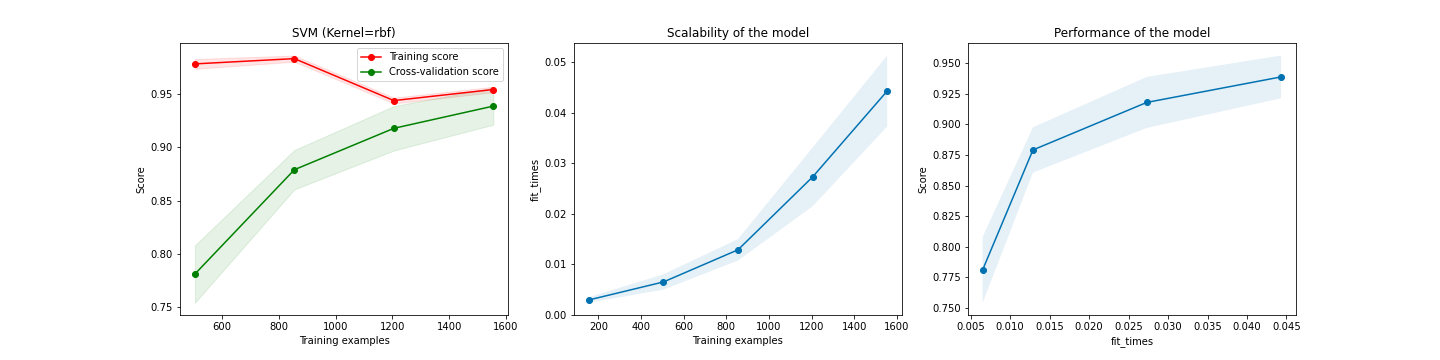
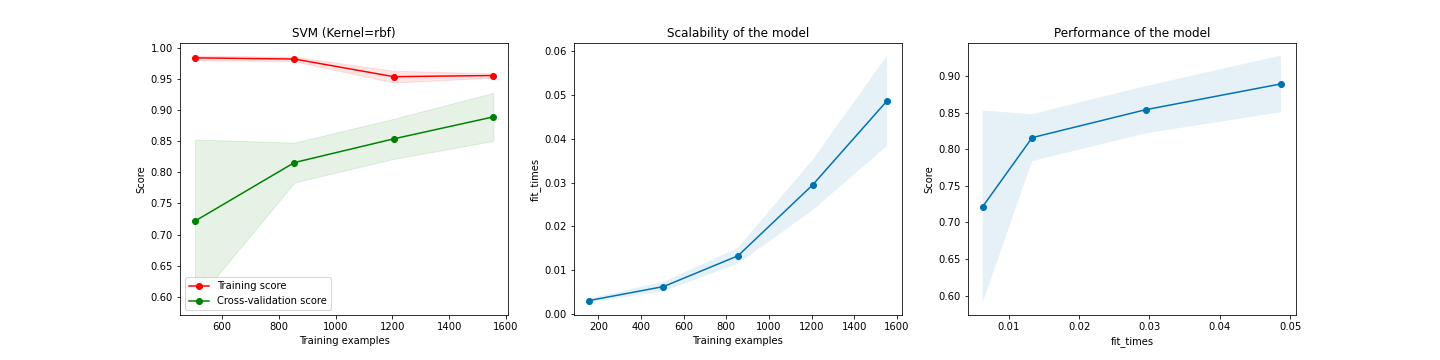
feat: add Neural Network

diff --git a/supervised_learning/external_fn.py b/supervised_learning/external_fn.py
@@ -1,0 +1,123 @@
+import numpy as np
+import matplotlib.pyplot as plt
+from sklearn.model_selection import learning_curve
+
+# plot_learning_curve function from official scikit-learn documentation
+# ref: https://scikit-learn.org/stable/auto_examples/model_selection/plot_learning_curve.html
+
+def plot_learning_curve(estimator, title, X, y, axes=None, ylim=None, cv=None,
+                        n_jobs=None, train_sizes=np.linspace(.1, 1.0, 5)):
+    """
+    Generate 3 plots: the test and training learning curve, the training
+    samples vs fit times curve, the fit times vs score curve.
+
+    Parameters
+    ----------
+    estimator : object type that implements the "fit" and "predict" methods
+        An object of that type which is cloned for each validation.
+
+    title : string
+        Title for the chart.
+
+    X : array-like, shape (n_samples, n_features)
+        Training vector, where n_samples is the number of samples and
+        n_features is the number of features.
+
+    y : array-like, shape (n_samples) or (n_samples, n_features), optional
+        Target relative to X for classification or regression;
+        None for unsupervised learning.
+
+    axes : array of 3 axes, optional (default=None)
+        Axes to use for plotting the curves.
+
+    ylim : tuple, shape (ymin, ymax), optional
+        Defines minimum and maximum yvalues plotted.
+
+    cv : int, cross-validation generator or an iterable, optional
+        Determines the cross-validation splitting strategy.
+        Possible inputs for cv are:
+
+          - None, to use the default 5-fold cross-validation,
+          - integer, to specify the number of folds.
+          - :term:`CV splitter`,
+          - An iterable yielding (train, test) splits as arrays of indices.
+
+        For integer/None inputs, if ``y`` is binary or multiclass,
+        :class:`StratifiedKFold` used. If the estimator is not a classifier
+        or if ``y`` is neither binary nor multiclass, :class:`KFold` is used.
+
+        Refer :ref:`User Guide <cross_validation>` for the various
+        cross-validators that can be used here.
+
+    n_jobs : int or None, optional (default=None)
+        Number of jobs to run in parallel.
+        ``None`` means 1 unless in a :obj:`joblib.parallel_backend` context.
+        ``-1`` means using all processors. See :term:`Glossary <n_jobs>`
+        for more details.
+
+    train_sizes : array-like, shape (n_ticks,), dtype float or int
+        Relative or absolute numbers of training examples that will be used to
+        generate the learning curve. If the dtype is float, it is regarded as a
+        fraction of the maximum size of the training set (that is determined
+        by the selected validation method), i.e. it has to be within (0, 1].
+        Otherwise it is interpreted as absolute sizes of the training sets.
+        Note that for classification the number of samples usually have to
+        be big enough to contain at least one sample from each class.
+        (default: np.linspace(0.1, 1.0, 5))
+    """
+    if axes is None:
+        _, axes = plt.subplots(1, 3, figsize=(20, 5))
+
+    axes[0].set_title(title)
+    if ylim is not None:
+        axes[0].set_ylim(*ylim)
+    axes[0].set_xlabel("Training examples")
+    axes[0].set_ylabel("Score")
+
+    train_sizes, train_scores, test_scores, fit_times, _ = \
+        learning_curve(estimator, X, y, cv=cv, n_jobs=n_jobs,
+                       train_sizes=train_sizes,
+                       return_times=True)
+    train_scores_mean = np.mean(train_scores, axis=1)
+    train_scores_std = np.std(train_scores, axis=1)
+    test_scores_mean = np.mean(test_scores, axis=1)
+    test_scores_std = np.std(test_scores, axis=1)
+    fit_times_mean = np.mean(fit_times, axis=1)
+    fit_times_std = np.std(fit_times, axis=1)
+
+    # Plot learning curve
+    axes[0].grid()
+    axes[0].fill_between(train_sizes, train_scores_mean - train_scores_std,
+                         train_scores_mean + train_scores_std, alpha=0.1,
+                         color="r")
+    axes[0].fill_between(train_sizes, test_scores_mean - test_scores_std,
+                         test_scores_mean + test_scores_std, alpha=0.1,
+                         color="g")
+    axes[0].plot(train_sizes, train_scores_mean, 'o-', color="r",
+                 label="Training score")
+    axes[0].plot(train_sizes, test_scores_mean, 'o-', color="g",
+                 label="Cross-validation score")
+    axes[0].legend(loc="best")
+
+    # Plot n_samples vs fit_times
+    axes[1].grid()
+    axes[1].plot(train_sizes, fit_times_mean, 'o-')
+    axes[1].fill_between(train_sizes, fit_times_mean - fit_times_std,
+                         fit_times_mean + fit_times_std, alpha=0.1)
+    axes[1].set_xlabel("Training examples")
+    axes[1].set_ylabel("fit_times")
+    axes[1].set_title("Scalability of the model")
+
+    # Plot fit_time vs score
+    axes[2].grid()
+    axes[2].plot(fit_times_mean, test_scores_mean, 'o-')
+    axes[2].fill_between(fit_times_mean, test_scores_mean - test_scores_std,
+                         test_scores_mean + test_scores_std, alpha=0.1)
+    axes[2].set_xlabel("fit_times")
+    axes[2].set_ylabel("Score")
+    axes[2].set_title("Performance of the model")
+
+    return plt
+
+
+# ref: https://scikit-learn.org/stable/auto_examples/model_selection/plot_validation_curve.html
